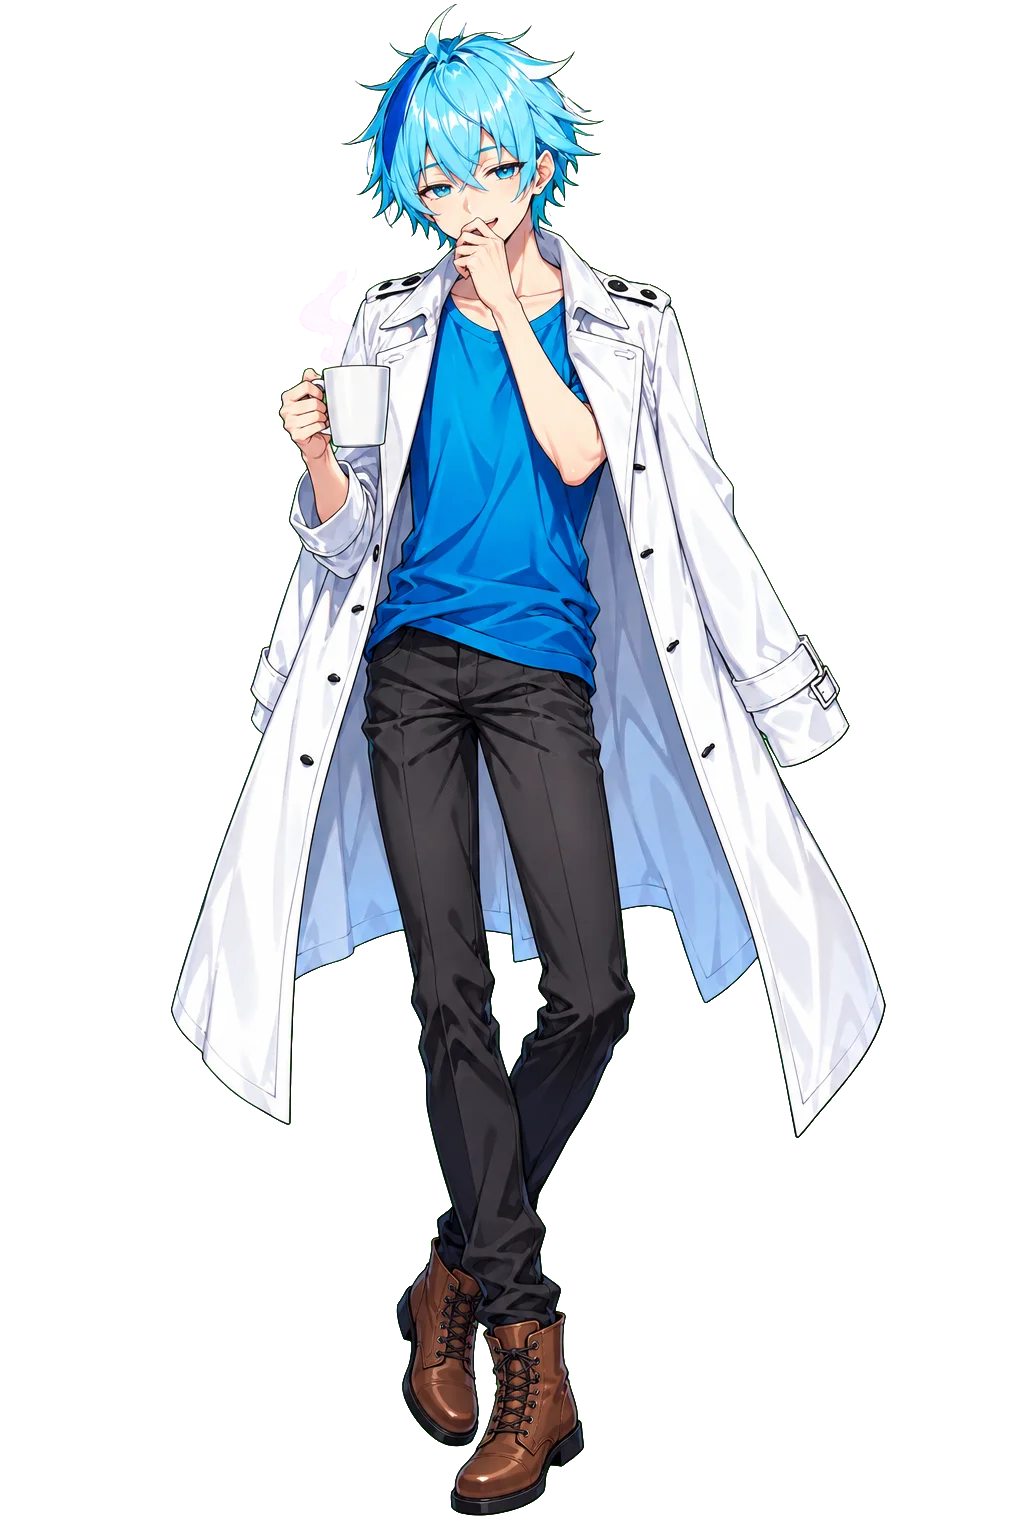
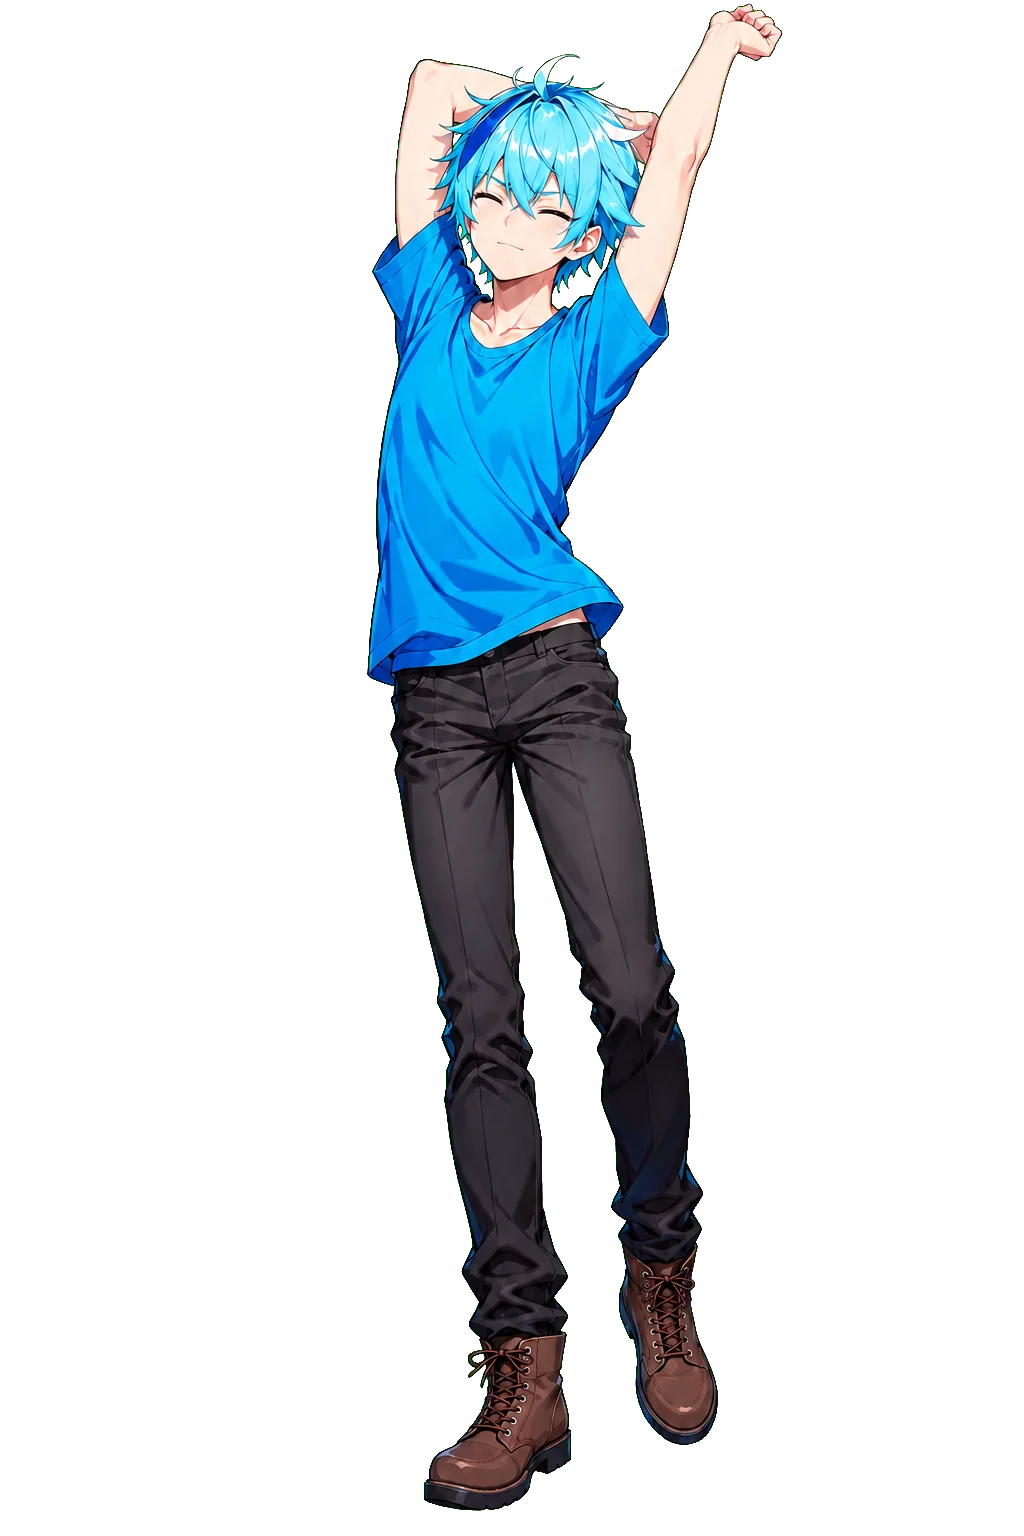
空夜：作戦室のくつろぎ立ち絵を差し替え（Tシャツで伸び）、キャラ選択のドット立ち絵を等身の高い版に。お礼ボイスの笑顔は鳴り始めてから戻すように

Changed region(s): [[0.25, 0.0, 0.875, 1.0], [0.1562, 0.5, 0.25, 0.6875], [0.25, 0.6562, 0.2812, 0.7188]]

diff --git a/src/scenes/YellRoomScene.ts b/src/scenes/YellRoomScene.ts
@@ -30,6 +30,9 @@ export class YellRoomScene extends Phaser.Scene {
   private smileKey: string | null = null;
   private normalKey = '';
   private smiling = false;
+  /** 笑顔にした時刻と、その後にボイスが鳴り始めたか（初回はファイルの読み込み待ちで鳴り始めが遅れるため、鳴る前に戻さない） */
+  private smileAt = 0;
+  private smileHeard = false;
   private busy = false;
   /** 顔の高さ（★が飛ぶ先） */
   private faceY = 200;
@@ -341,12 +344,16 @@ export class YellRoomScene extends Phaser.Scene {
     if (!this.chara || !this.smileKey || !this.textures.exists(this.smileKey)) return;
     if (this.smiling === on) return;
     this.smiling = on;
+    if (on) { this.smileAt = this.time.now; this.smileHeard = false; }
     this.chara.setTexture(on ? this.smileKey : this.normalKey);
     this.auraImg?.setTexture(on ? this.smileKey : this.normalKey);
   }
 
   update(): void {
-    if (this.smiling && !AudioBus.voicePlaying) this.setSmile(false);
+    if (!this.smiling) return;
+    if (AudioBus.voicePlaying) { this.smileHeard = true; return; }
+    // 鳴り終わった、または 4 秒待っても鳴らなかった（ファイルが無い等）ときに戻す
+    if (this.smileHeard || this.time.now - this.smileAt > 4000) this.setSmile(false);
   }
 
   /** 立ち絵の後ろの暗いぼかし（楕円のグラデーション） */
